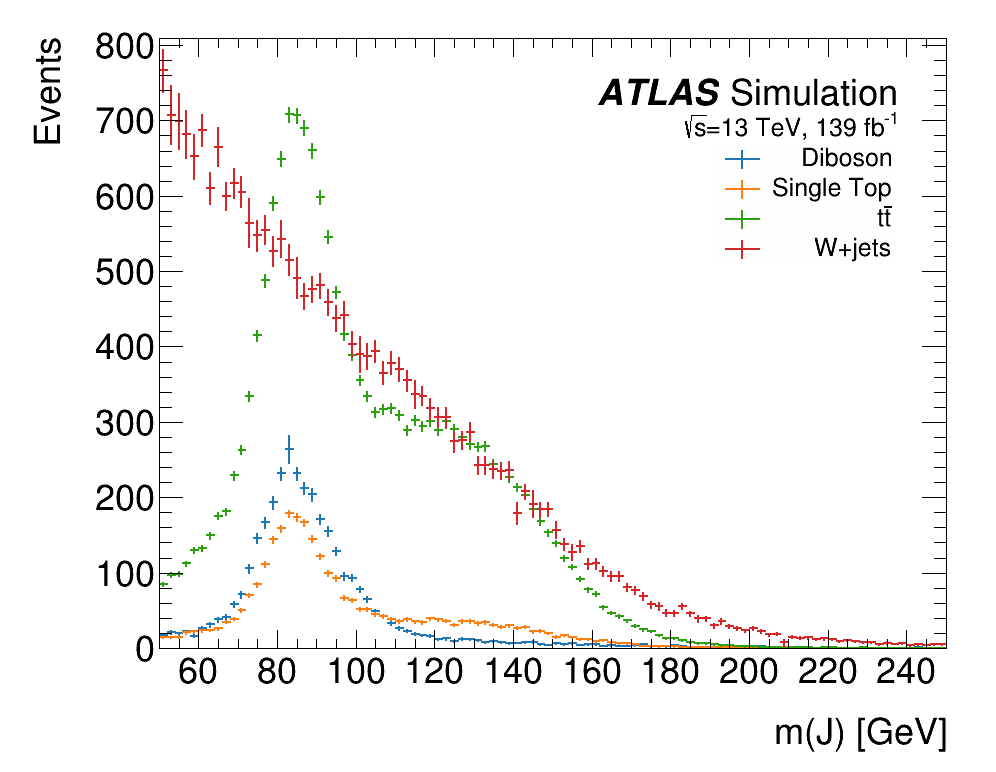
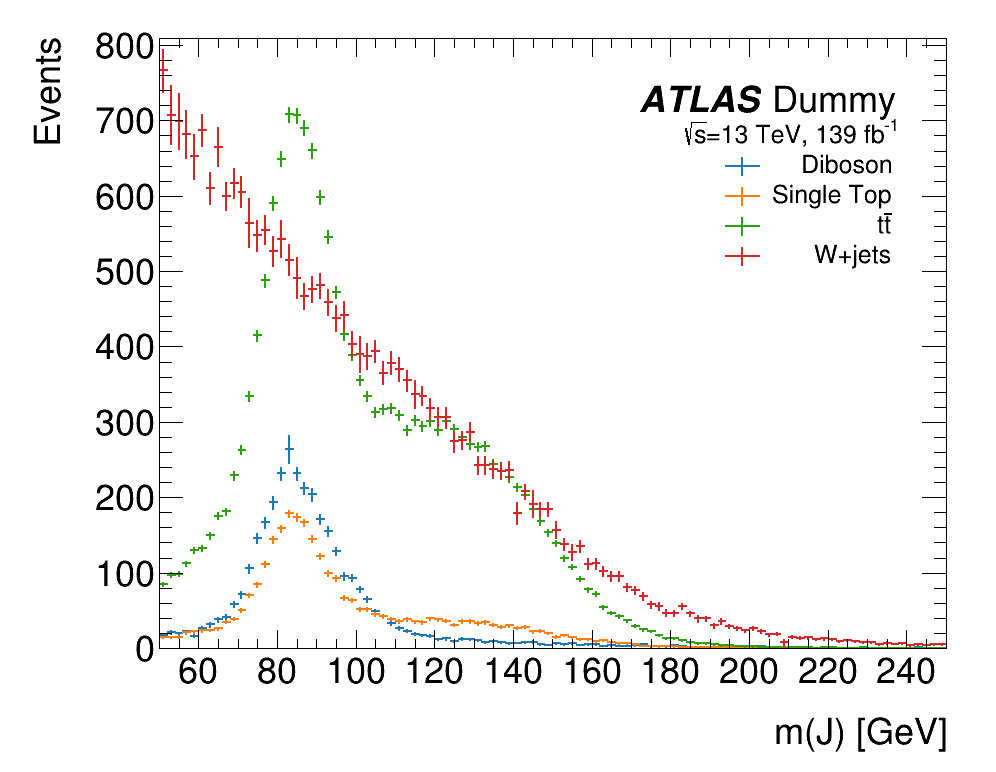
add discrete plot

Changed region(s): [[0.5914, 0.0933, 0.9026, 0.342], [0.7159, 0.2798, 0.747, 0.342]]

diff --git a/plot.py b/plot.py
@@ -1315,17 +1315,15 @@ def _fix_axis_sizing(h, pad, remove_x_labels=False, xlabeloffset=0.005, xlabelsi
     # Note there seems to be a minimum tick length for the y axis...
 
 
-def _draw_horizontal_line(pos, h, xrange):
+def _draw_horizontal_line(pos, frame):
     # TODO this will still draw the line out of the axes if pos is not in yrange
-    if pos is not None:
-        if xrange:
-            # make sure xrange is a list if it has None elements
-            line = ROOT.TLine(xrange[0], pos, xrange[1], pos)
-        else:
-            line = ROOT.TLine(h.GetXaxis().GetXmin(), pos, h.GetXaxis().GetXmax(), pos)
-        line.SetLineStyle(ROOT.kDashed)
-        line.Draw()
-        return line
+    if pos is None: return
+    x_min = frame.GetXaxis().GetXmin()
+    x_max = frame.GetXaxis().GetXmax()
+    line = ROOT.TLine(x_min, pos, x_max, pos)
+    line.SetLineStyle(ROOT.kDashed)
+    line.Draw()
+    return line
 
 
 def plot_ratio(hists1, hists2, height1=0.7, outlier_arrows=True, hline=None, axes_callback=None, save_plot=True, **kwargs):
@@ -1376,7 +1374,7 @@ def plot_ratio(hists1, hists2, height1=0.7, outlier_arrows=True, hline=None, axe
     pad2.RedrawAxis() # Make the tick marks go above any fill
 
     ### Draw y=1 line ###
-    cache.append(_draw_horizontal_line(hline, hists2[0], kwargs.get('xrange')))
+    cache.append(_draw_horizontal_line(hline, plotter2.frame))
     
     ### Fix axes sizing ### 
     _fix_axis_sizing(plotter1.frame, pad1, True)
@@ -1433,36 +1431,51 @@ def plot_ratio3(hists1, hists2, hists3, height1=0.55, outlier_arrows=True, hline
     pad3.Draw()
 
     ### Draw main histo ###
-    titlesize = kwargs.get('titlesize', 0.05)
-    kwargs['titlesize'] = titlesize / height1
-    # kwargs['yrange'] = list(kwargs.get('yrange', [None, None]))
+    titlesize = kwargs.get('title_size', 0.05)
+    textsize = kwargs.get('text_size', 0.035)
+    kwargs['title_size'] = titlesize / height1
+    kwargs['text_size'] = textsize / height1
     kwargs.setdefault('text_offset_bottom', 0.1 * (1 - height1)) # guess
     plotter1 = _plot(pad1, hists1, **kwargs)
     cache.append(plotter1)
     pad1.RedrawAxis() # Make the tick marks go above any fill
 
     ### Draw first ratio plot
-    args2 = { 'ydivs': 204, 'ignore_outliers_y': 3, 'title': None, 'legend': None, 'titlesize': titlesize / height2 }
+    args2 = { 
+        'ydivs': 204, 
+        'ignore_outliers_y': 3, 
+        'title': None, 
+        'legend': None, 
+        'titlesize': titlesize / height2,
+        'textsize': textsize / height2,
+    }
     args2.update(_copy_ratio_args(kwargs, '2'))
     plotter2 = _plot(pad2, hists2, do_legend=False, **args2)
     cache.append(plotter2)
     pad2.RedrawAxis() # Make the tick marks go above any fill
 
     ### Draw y=1 line ###
-    cache.append(_draw_horizontal_line(hline2, hists2[0], kwargs.get('xrange')))
+    cache.append(_draw_horizontal_line(hline2, plotter1.frame))
 
     ### Draw out-of-bounds arrows ###
     if outlier_arrows: cache.append(_outliers(plotter2.frame, hists2))
 
     ### Draw second ratio plot
-    args3 = { 'ydivs': 204, 'ignore_outliers_y': 3, 'title': None, 'legend': None, 'titlesize': titlesize / height3, 'text_offset_bottom': 0.15 / height3 }
+    args3 = { 
+        'ydivs': 204, 
+        'ignore_outliers_y': 3, 
+        'title': None, 
+        'legend': None, 
+        'titlesize': titlesize / height3,
+        'textsize': textsize / height3,
+    }
     args3.update(_copy_ratio_args(kwargs, '3'))
     plotter3 = _plot(pad3, hists3, do_legend=False, **args3)
     cache.append(plotter3)
     pad3.RedrawAxis() # Make the tick marks go above any fill
 
     ### Draw y=1 line ###
-    cache.append(_draw_horizontal_line(hline3, hists3[0], kwargs.get('xrange')))
+    cache.append(_draw_horizontal_line(hline3, plotter1.frame))
 
     ### Draw out-of-bounds arrows ###
     if outlier_arrows: cache.append(_outliers(plotter3.frame, hists3))
@@ -1741,7 +1754,8 @@ def plot_discrete_bins(hists1, hists2=None, hists3=None, plotter=plot, bin_width
     else:
         bin_start = None # these are 0-indexed
         bin_end = None # exclusive
-        xrange = _auto_xrange(hists1, **kwargs)
+        # xrange = _auto_xrange(hists1, **kwargs) # TODO
+        xrange = None
         h_check = hists1[0]
         if xrange is None:
             bin_start = 0
@@ -1755,9 +1769,6 @@ def plot_discrete_bins(hists1, hists2=None, hists3=None, plotter=plot, bin_width
                     break
         nbins = bin_end - bin_start
         if nbins < 1: raise RuntimeError(f'plot_equiwidth_bins() nbins < 1: nbins={nbins}, xrange={xrange}')
-
-    ### Create frame histogram ###
-    h_frame = ROOT.TH1D(hists1[0].GetName() + '_frame', '', nbins, 0, nbins)
 
     ### Adjust labels of x axis ###
     arg_name = 'frame_callback' + ('3' if hists3 else '2' if hists2 else '')
@@ -1786,10 +1797,12 @@ def plot_discrete_bins(hists1, hists2=None, hists3=None, plotter=plot, bin_width
                 v = obj.GetBinContent(bin_start + i + 1)
                 e_low = obj.GetBinError(bin_start + i + 1)
                 e_high = e_low
-            elif 'TGraph' in obj.ClassName():
+            elif 'TGraphAsymmErrors' in obj.ClassName():
                 v = obj.GetPointY(bin_start + i)
                 e_low = obj.GetErrorYlow(bin_start + i)
                 e_high = obj.GetErrorYhigh(bin_start + i)
+            else:
+                raise NotImplementedError(f'plot_discrete_bins() class {obj.ClassName()}')
             g.SetPoint(i, i + x, v)
             g.SetPointError(i, width / 2, width / 2, e_low, e_high)
 
@@ -1807,7 +1820,7 @@ def plot_discrete_bins(hists1, hists2=None, hists3=None, plotter=plot, bin_width
     def convert_objs(objs):
         if objs is None: return None
         out = [create_graph(obj, i, len(objs)) for i,obj in enumerate(objs)]
-        return [h_frame.Clone()] + out
+        return out
 
     hists1 = convert_objs(hists1)
     hists2 = convert_objs(hists2)
@@ -1815,10 +1828,7 @@ def plot_discrete_bins(hists1, hists2=None, hists3=None, plotter=plot, bin_width
 
     ### Fix args ###
     kwargs['xdivs'] = -nbins
-    kwargs['xrange'] = (0, nbins)
-    kwargs['frame_histogram'] = True
-    kwargs['frame_histogram2'] = True
-    kwargs['frame_histogram3'] = True
+    kwargs['x_range'] = (0, nbins)
 
     ### Plot ###
     pos_args = [hists1]

diff --git a/examples/discrete_plot.py b/examples/discrete_plot.py
@@ -1,0 +1,80 @@
+#!/usr/bin/env python3
+
+'''
+Run this file with 
+
+    python3 examples/discrete_plot.py
+
+'''
+
+import plot
+import histograms
+import ROOT
+
+def discrete_plot():
+    hists = histograms.hists_mVV_vjetsfit
+    args = {
+        'filename':     'discrete_plot',
+        'title':        'ATLAS Dummy',
+        'subtitle':     [
+            '#sqrt{s}=13 TeV, 139 fb^{-1}',
+            'W+jets Fits',
+        ],
+        'legend':       ['MC', 'GPR MLE Fit', 'GPR p(f | X,y)'],
+        'xtitle':       'm(VV) [GeV]',
+    }
+
+    ### Main pad hists ###
+    for i,h in enumerate(hists): # Do styles before cloning for the ratio plots
+        h.SetLineWidth(2)
+        h.SetLineColor(plot.colors.tableu(i))
+        h.SetFillColorAlpha(plot.colors.tableu(i), 0.2)
+        h.SetMarkerColor(plot.colors.tableu(i))
+        h.SetMarkerStyle(ROOT.kFullCircle + i)
+    args.setdefault('ytitle', 'Events / GeV')
+    args.setdefault('opts', 'P2+')
+    args.setdefault('legend_opts', 'PE')
+    args.setdefault('xrange', None)
+    args.setdefault('yrange', [0, None])
+
+    ### Ratio plot ###
+    hists2 = []
+    for h in hists[1:]:
+        r = h.Clone()
+        r.Divide(hists[0])
+        hists2.append(r)
+    args.setdefault('opts2', 'P2+')
+    args.setdefault('ytitle2', '#frac{Fit}{MC}')
+    args.setdefault('ignore_outliers_y2', 0)
+    args.setdefault('hline2', 1)
+
+    ### Fractional uncertainty ###
+    hists3 = []
+    for h in hists:
+        h = h.Clone()
+        for i in range(h.GetNbinsX() + 2):
+            v = h.GetBinContent(i)
+            if v > 0:
+                h.SetBinContent(i, 100 * h.GetBinError(i) / v)
+            else:
+                h.SetBinContent(i, 0)
+            h.SetBinError(i, 0)
+        hists3.append(h)
+    args.setdefault('opts3', 'P2+')
+    args.setdefault('ytitle3', '% Error')
+    args.setdefault('ignore_outliers_y3', 0)
+
+    ### Remove bottom ticks ###
+    def frame_callback(frame):
+        frame.GetYaxis().ChangeLabel(1, -1, 0)
+    args['frame_callback'] = frame_callback
+    args['frame_callback2'] = frame_callback
+
+    ### Plot ###
+    plot.plot_discrete_bins(hists, hists2, hists3, plotter=plot.plot_ratio3, **args)
+
+
+
+if __name__ == "__main__":
+    plot.save_transparent = False
+    discrete_plot()

diff --git a/examples/histograms.py b/examples/histograms.py
@@ -1,10 +1,46 @@
 '''
 Some preset histograms used in the example scripts.
 
+- hists_mVV_vjetsfit: 3 histograms of m(VV), [MC, MLE, p(f)]
 - hists_mV_unfolding: 4 histograms of pT(V), [diboson fid, diboson int, cW fid, cW int]
 - hists_mj_samples: 4 histograms of pT(J), [diboson, stop, ttbar, wjets]
 '''
 import ROOT
+import numpy as np
+
+
+bins = np.array([500., 550, 600, 650, 700, 750, 800, 900, 1000, 1200, 1800, 3000])
+
+hists_mVV_vjetsfit_mc = ROOT.TH1F('hists_mVV_vjetsfit_mc', '', len(bins) - 1, bins)
+vals = [2.123957, 7.475844, 15.70637, 18.1931, 15.73302, 13.16379, 8.890716, 4.56903, 2.114507, 0.3458206, 0.01381942]
+errs = [0.1168195, 0.2607041, 0.6017085, 0.6024235, 0.4239284, 0.4791286, 0.2090752, 0.3050563, 0.06128837, 0.01718785, 0.001275155]
+for i,(v,e) in enumerate(zip(vals, errs)):
+    hists_mVV_vjetsfit_mc.SetBinContent(i+1, v)
+    hists_mVV_vjetsfit_mc.SetBinError(i+1, e)
+
+hists_mVV_vjetsfit_mle = ROOT.TH1F('hists_mVV_vjetsfit_mle', '', len(bins) - 1, bins)
+vals = [2.105904, 7.74831, 16.80613, 18.14824, 17.2492, 13.46212, 9.029691, 4.78132, 2.136507, 0.3482589, 0.01198888]
+errs = [0.1825454, 0.3326361, 0.5124832, 0.7708528, 0.4981895, 0.4099032, 0.2279366, 0.1625228, 0.08690935, 0.01803914, 0.002300117]
+for i,(v,e) in enumerate(zip(vals, errs)):
+    hists_mVV_vjetsfit_mle.SetBinContent(i+1, v)
+    hists_mVV_vjetsfit_mle.SetBinError(i+1, e)
+
+hists_mVV_vjetsfit_pf = ROOT.TH1F('hists_mVV_vjetsfit_pf', '', len(bins) - 1, bins)
+vals = [2.06661, 7.677692, 16.7587, 18.50239, 17.13326, 13.38758, 9.024076, 4.774637, 2.137767, 0.3461665, 0.01126283]
+errs = [0.203365, 0.3705489, 0.5997595, 0.9927753, 0.6060573, 0.4945361, 0.2616089, 0.175942, 0.09692905, 0.0196789, 0.002889645]
+for i,(v,e) in enumerate(zip(vals, errs)):
+    hists_mVV_vjetsfit_pf.SetBinContent(i+1, v)
+    hists_mVV_vjetsfit_pf.SetBinError(i+1, e)
+
+
+hists_mVV_vjetsfit = [
+    hists_mVV_vjetsfit_mc,
+    hists_mVV_vjetsfit_mle,
+    hists_mVV_vjetsfit_pf,
+]
+
+
+
 
 hists_mV_unfolding_diboson_fid = ROOT.TH1F("WW_fid_full_ann_truth_vhad_pt__12","",75,0,3000)
 hists_mV_unfolding_diboson_fid.SetBinContent(1,382.9375)

diff --git a/examples/basic_plot.py b/examples/basic_plot.py
@@ -16,7 +16,7 @@ def basic_plot():
     plot.plot(histograms.hists_mj_samples,
         filename='basic_plot',
         ### Text ###
-        title='ATLAS Simulation',
+        title='ATLAS Dummy',
         subtitle='#sqrt{s}=13 TeV, 139 fb^{-1}',
         legend=['Diboson', 'Single Top', 't#bar{t}', 'W+jets'],
         ytitle='Events',
@@ -32,5 +32,4 @@ def basic_plot():
 
 if __name__ == "__main__":
     plot.save_transparent = False
-    plot.file_formats = ['png', 'pdf']
     basic_plot()

diff --git a/examples/ratio_plot.py b/examples/ratio_plot.py
@@ -36,7 +36,7 @@ def ratio_plot():
     plot.plot_ratio(hists, ratios,
         filename='ratio_plot',
         ### Text ###
-        title='ATLAS Simulation',
+        title='ATLAS Dummy',
         subtitle='#sqrt{s}=13 TeV, 139 fb^{-1}',
         legend=legend,
         ytitle='Events',
